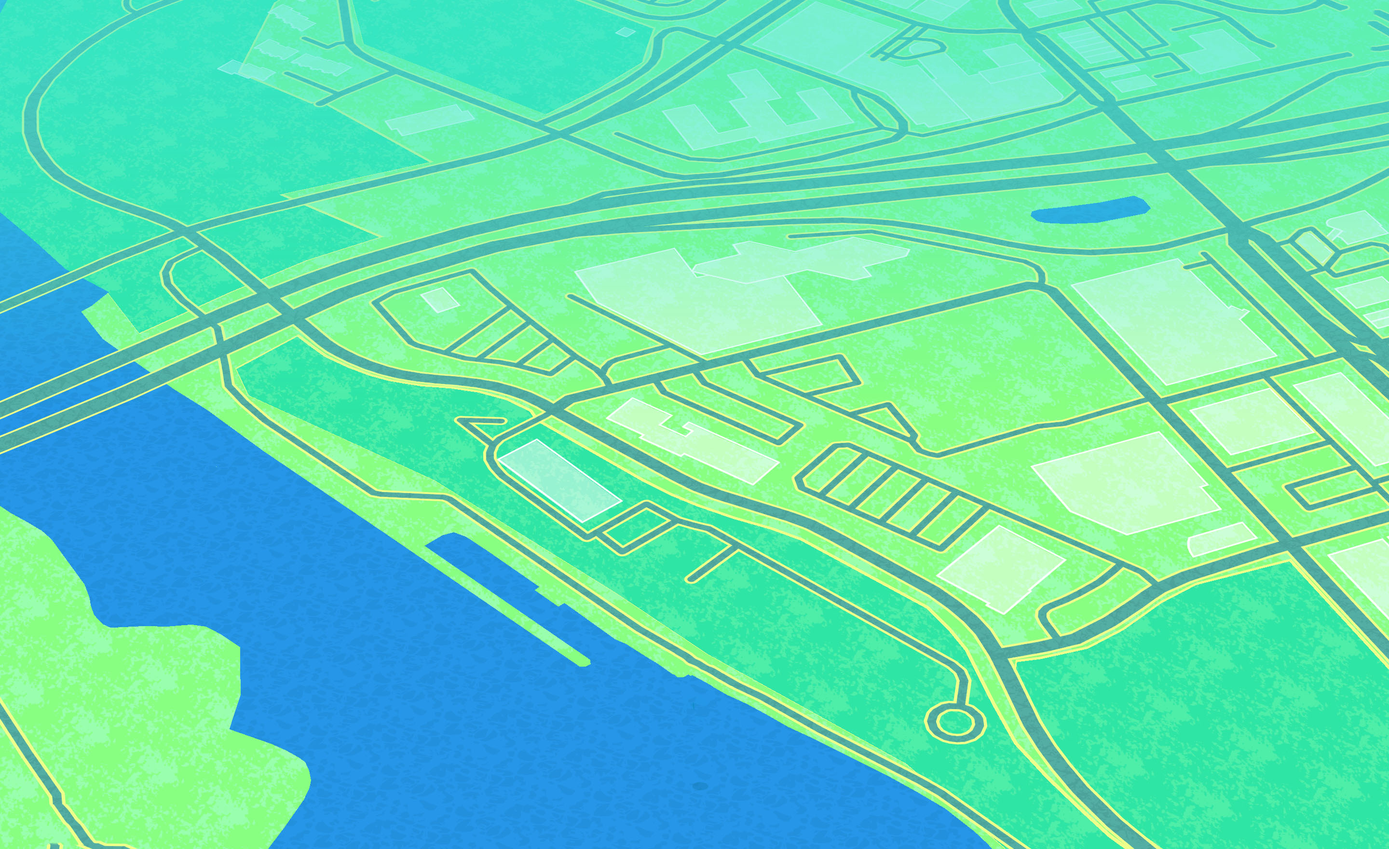
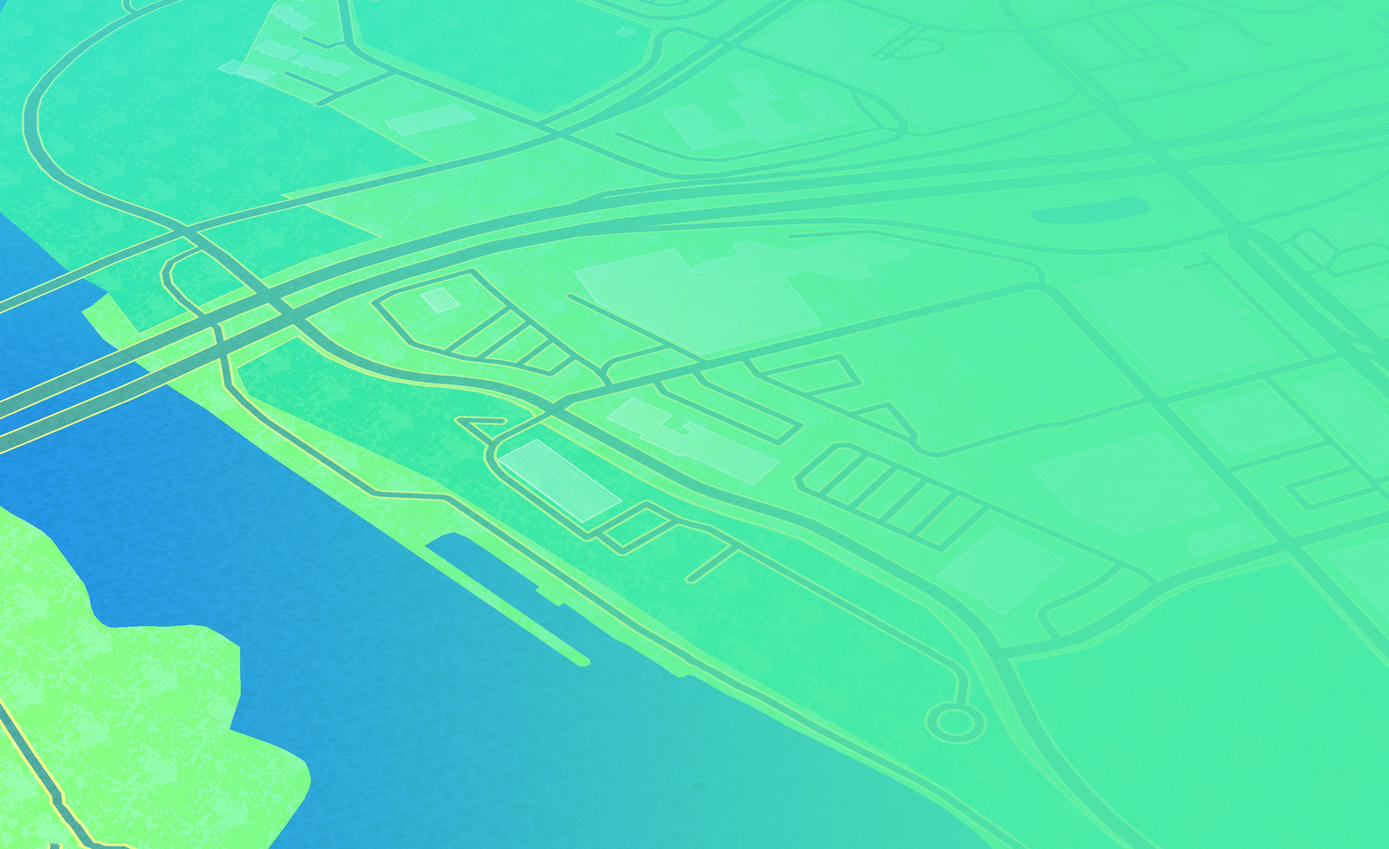
bots data updated, background updated, and colors updated

diff --git a/app/scripts/services/botsdata.js b/app/scripts/services/botsdata.js
@@ -17,7 +17,7 @@ angular.module('happybotsApp')
       imageBgSrc:"images/alexBg5.jpg",
       icoSrc:"images/alexIcoNoBorder.png",
       messengerUrl: "http://m.me/alex.wikimessenger",
-      githubUrl: "https://github.com/patriciamayo/Alex-wikiMessenger",
+      githubUrl: "https://github.com/HappyBots/Alex-wikiMessenger",
       class: "dark",
     },
     "sam" : {
@@ -28,7 +28,7 @@ angular.module('happybotsApp')
       imageBgSrc:"images/samBg.jpg",
       icoSrc:"images/samico.png",
       messengerUrl: "http://m.me/sam.pokemessenger",
-      githubUrl: "http://sandoche.com",
+      githubUrl: "https://github.com/HappyBots/Sam-pokeMessenger",
       class: "white-shadow",
     },
   });

diff --git a/app/styles/_bot.scss b/app/styles/_bot.scss
@@ -21,10 +21,11 @@
 
     min-height: 100vh;
 
-    .white-shadow {
-      color: #fff !important;
-      text-shadow: 0px 2px 2px rgba(0, 0, 0, 0.4);
-    }
+
+  .white-shadow {
+    color: #fff !important;
+    text-shadow: 2px 2px 20px rgba(0, 0, 0, 0.4);
+  }
 
 }
 

diff --git a/app/scripts/app.js b/app/scripts/app.js
@@ -34,7 +34,7 @@ angular
         controllerAs: 'bot'
       })
       .otherwise({
-        redirectTo: '/alex'
+        redirectTo: '/sam'
       });
   }).run(function($rootScope, $location, analyticsService) {
     $rootScope.$on('$routeChangeSuccess', function() {
